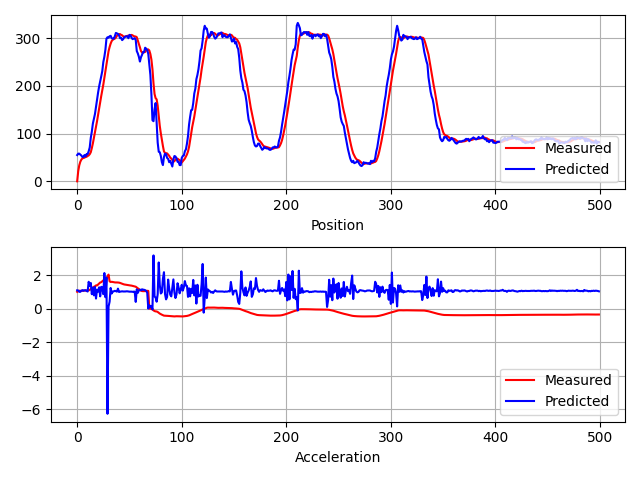
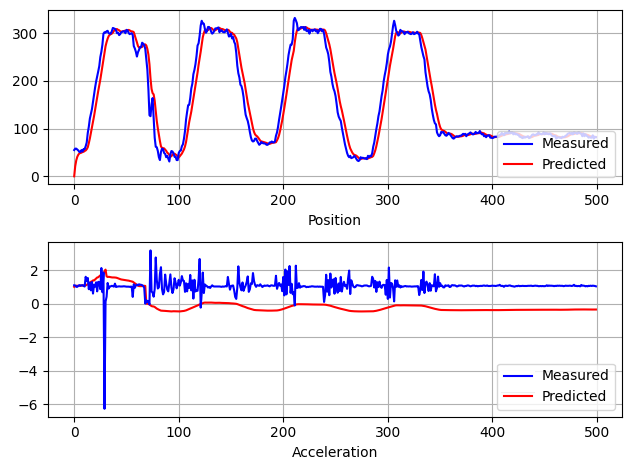
små fix

Changed region(s): [[0.03, 0.5053, 0.989, 0.9809], [0.0, 0.0297, 0.989, 0.4459], [0.4795, 0.4459, 0.5694, 0.4756]]

diff --git a/pythonFiles/main.py b/pythonFiles/main.py
@@ -116,17 +116,22 @@ print(np.std(acc_array2))
 
 plt.close(0); plt.figure(0)
 plt.subplot(2,1,1)
-plt.plot(empty_array_1, 'r')
-plt.plot(empty_array_2, 'b')
+plt.plot(empty_array_1, 'r', label = 'Predicted')
+plt.plot(empty_array_2, 'b', label = 'Measured')
 plt.grid(True)
+plt.xlabel("Position")
+plt.legend(loc='lower right')
 plt.subplot(2,1,2)
-plt.plot(acc_array, 'r')
-plt.plot(acc_array2, 'b')
+plt.plot(acc_array, 'r', label = 'Predicted' )
+plt.plot(acc_array2, 'b', label = 'Measured')
+plt.xlabel('Acceleration')
 plt.grid(True)
+plt.legend(loc='lower right')
 #print("Predited",empty_array_1)
 #t("Distance",empty_array_2)
 #print(" Accel", acc_array2)
 
+plt.tight_layout()
 plt.show()
 
 
